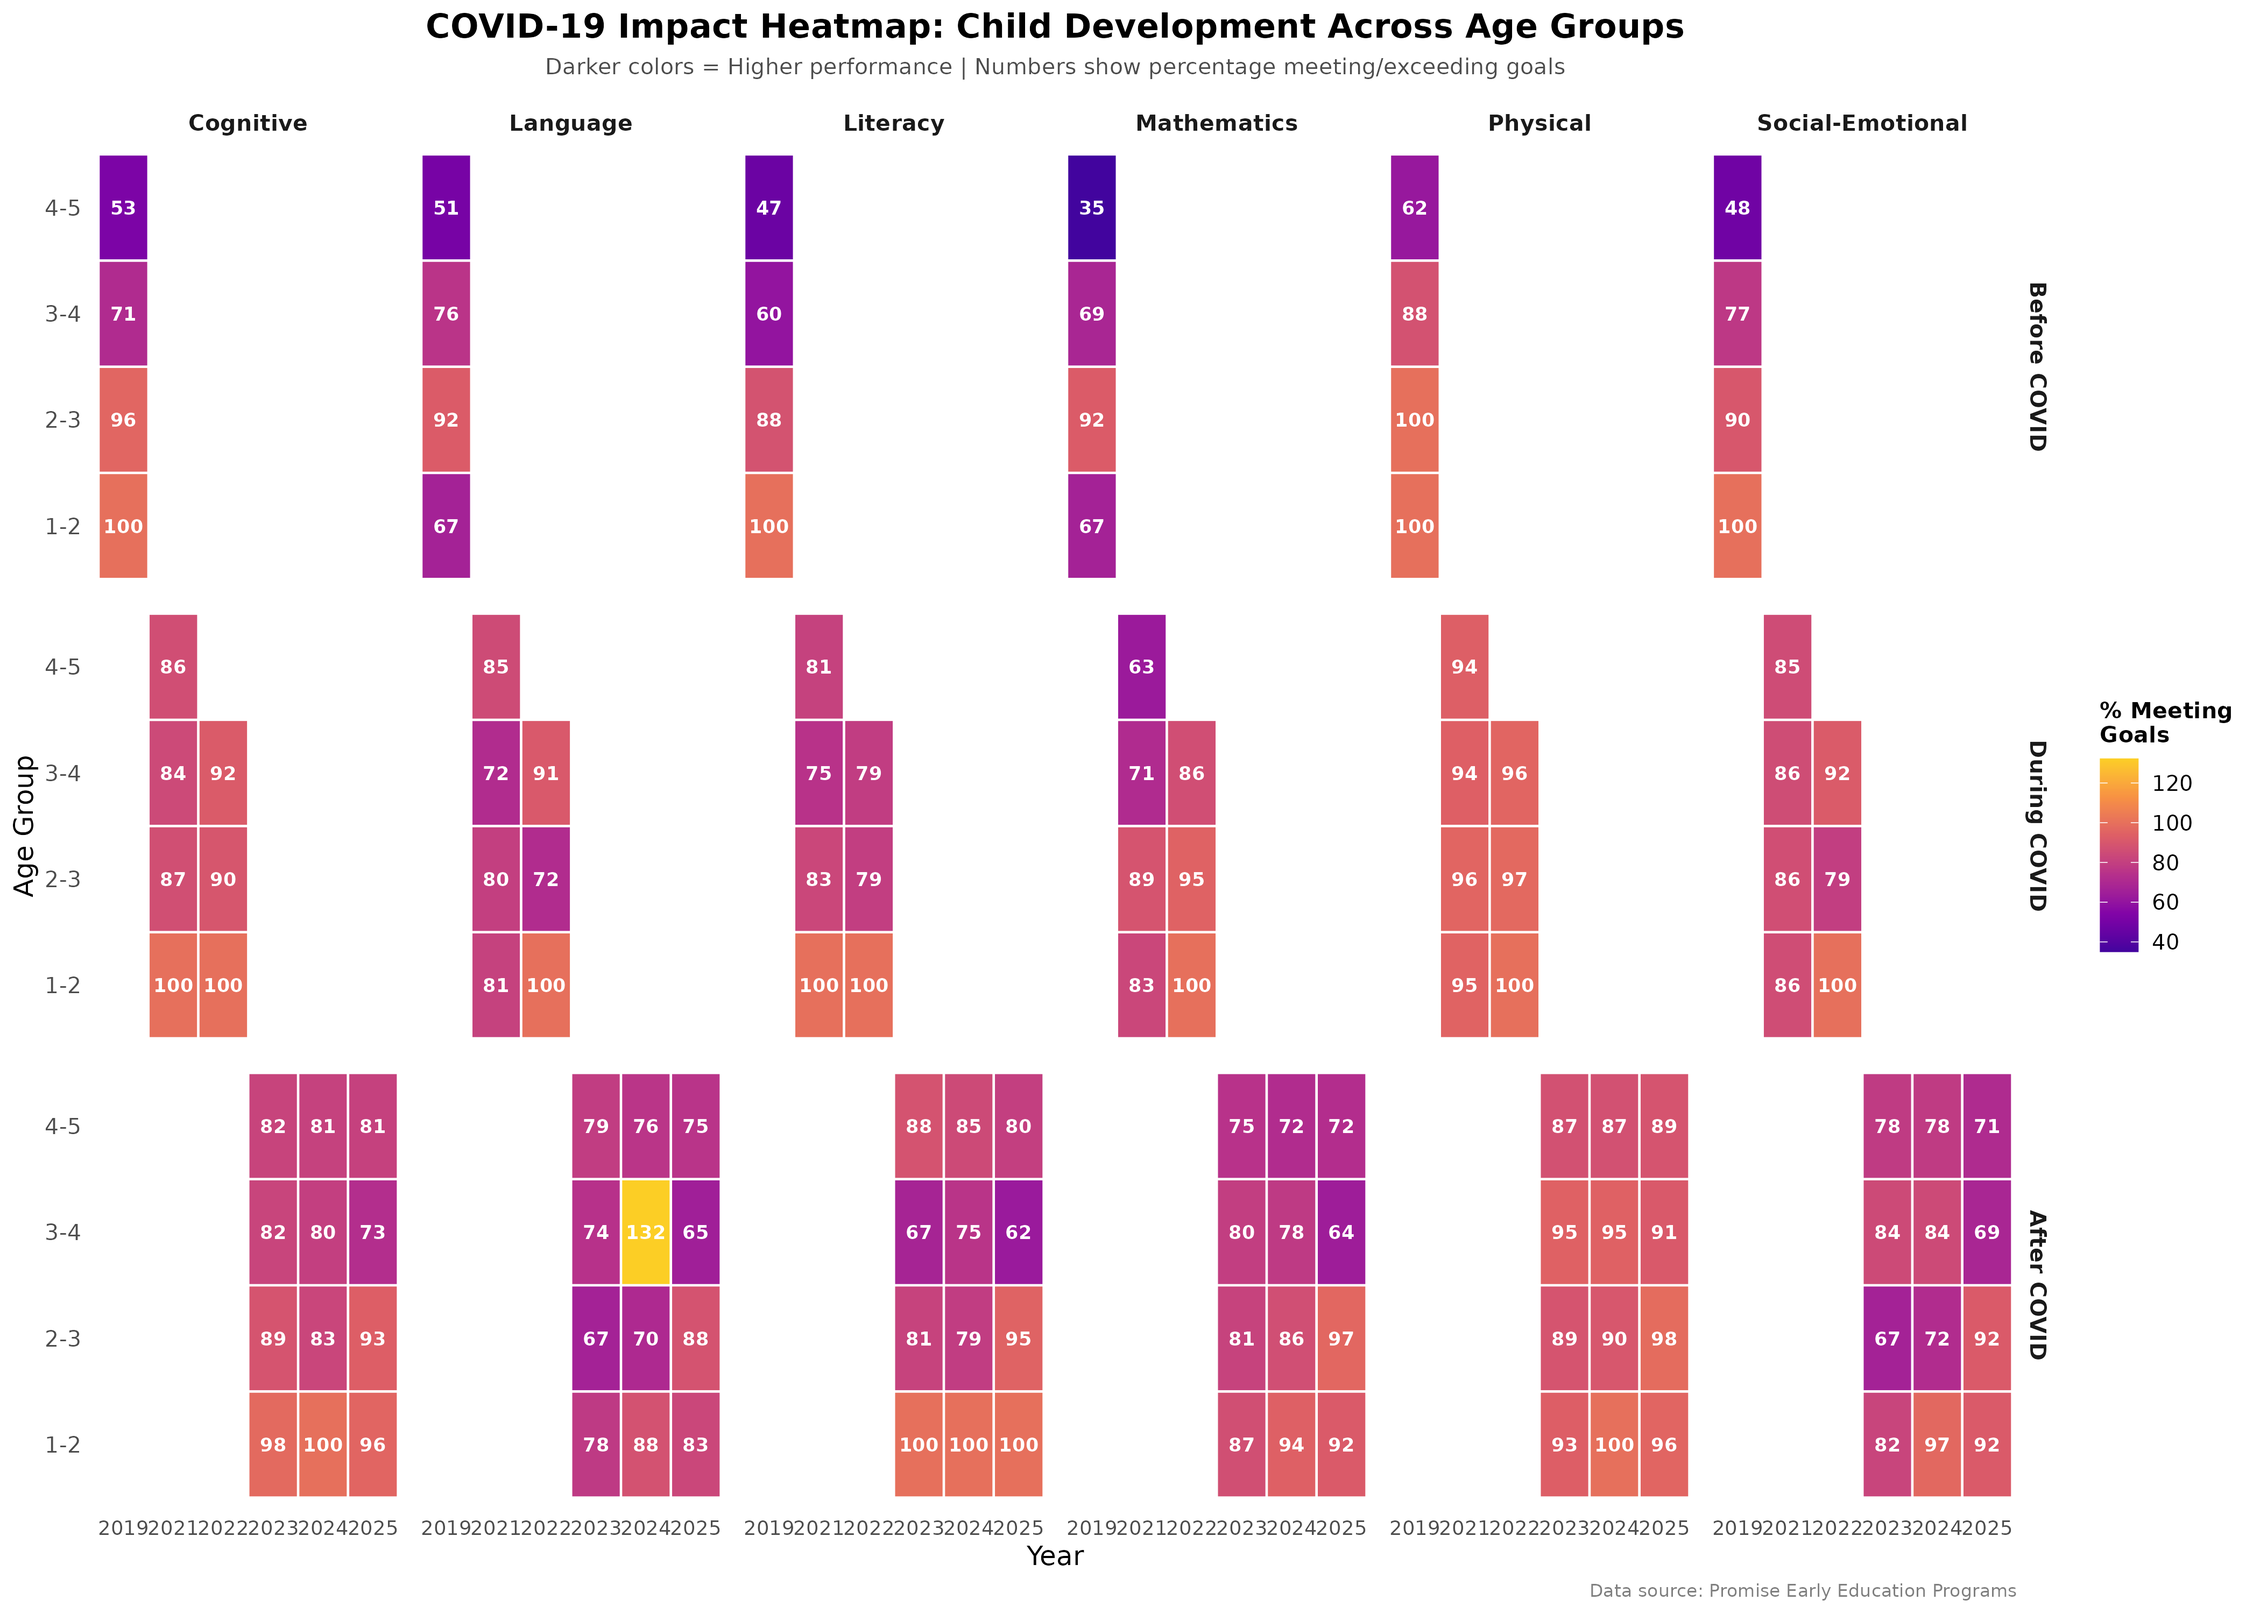
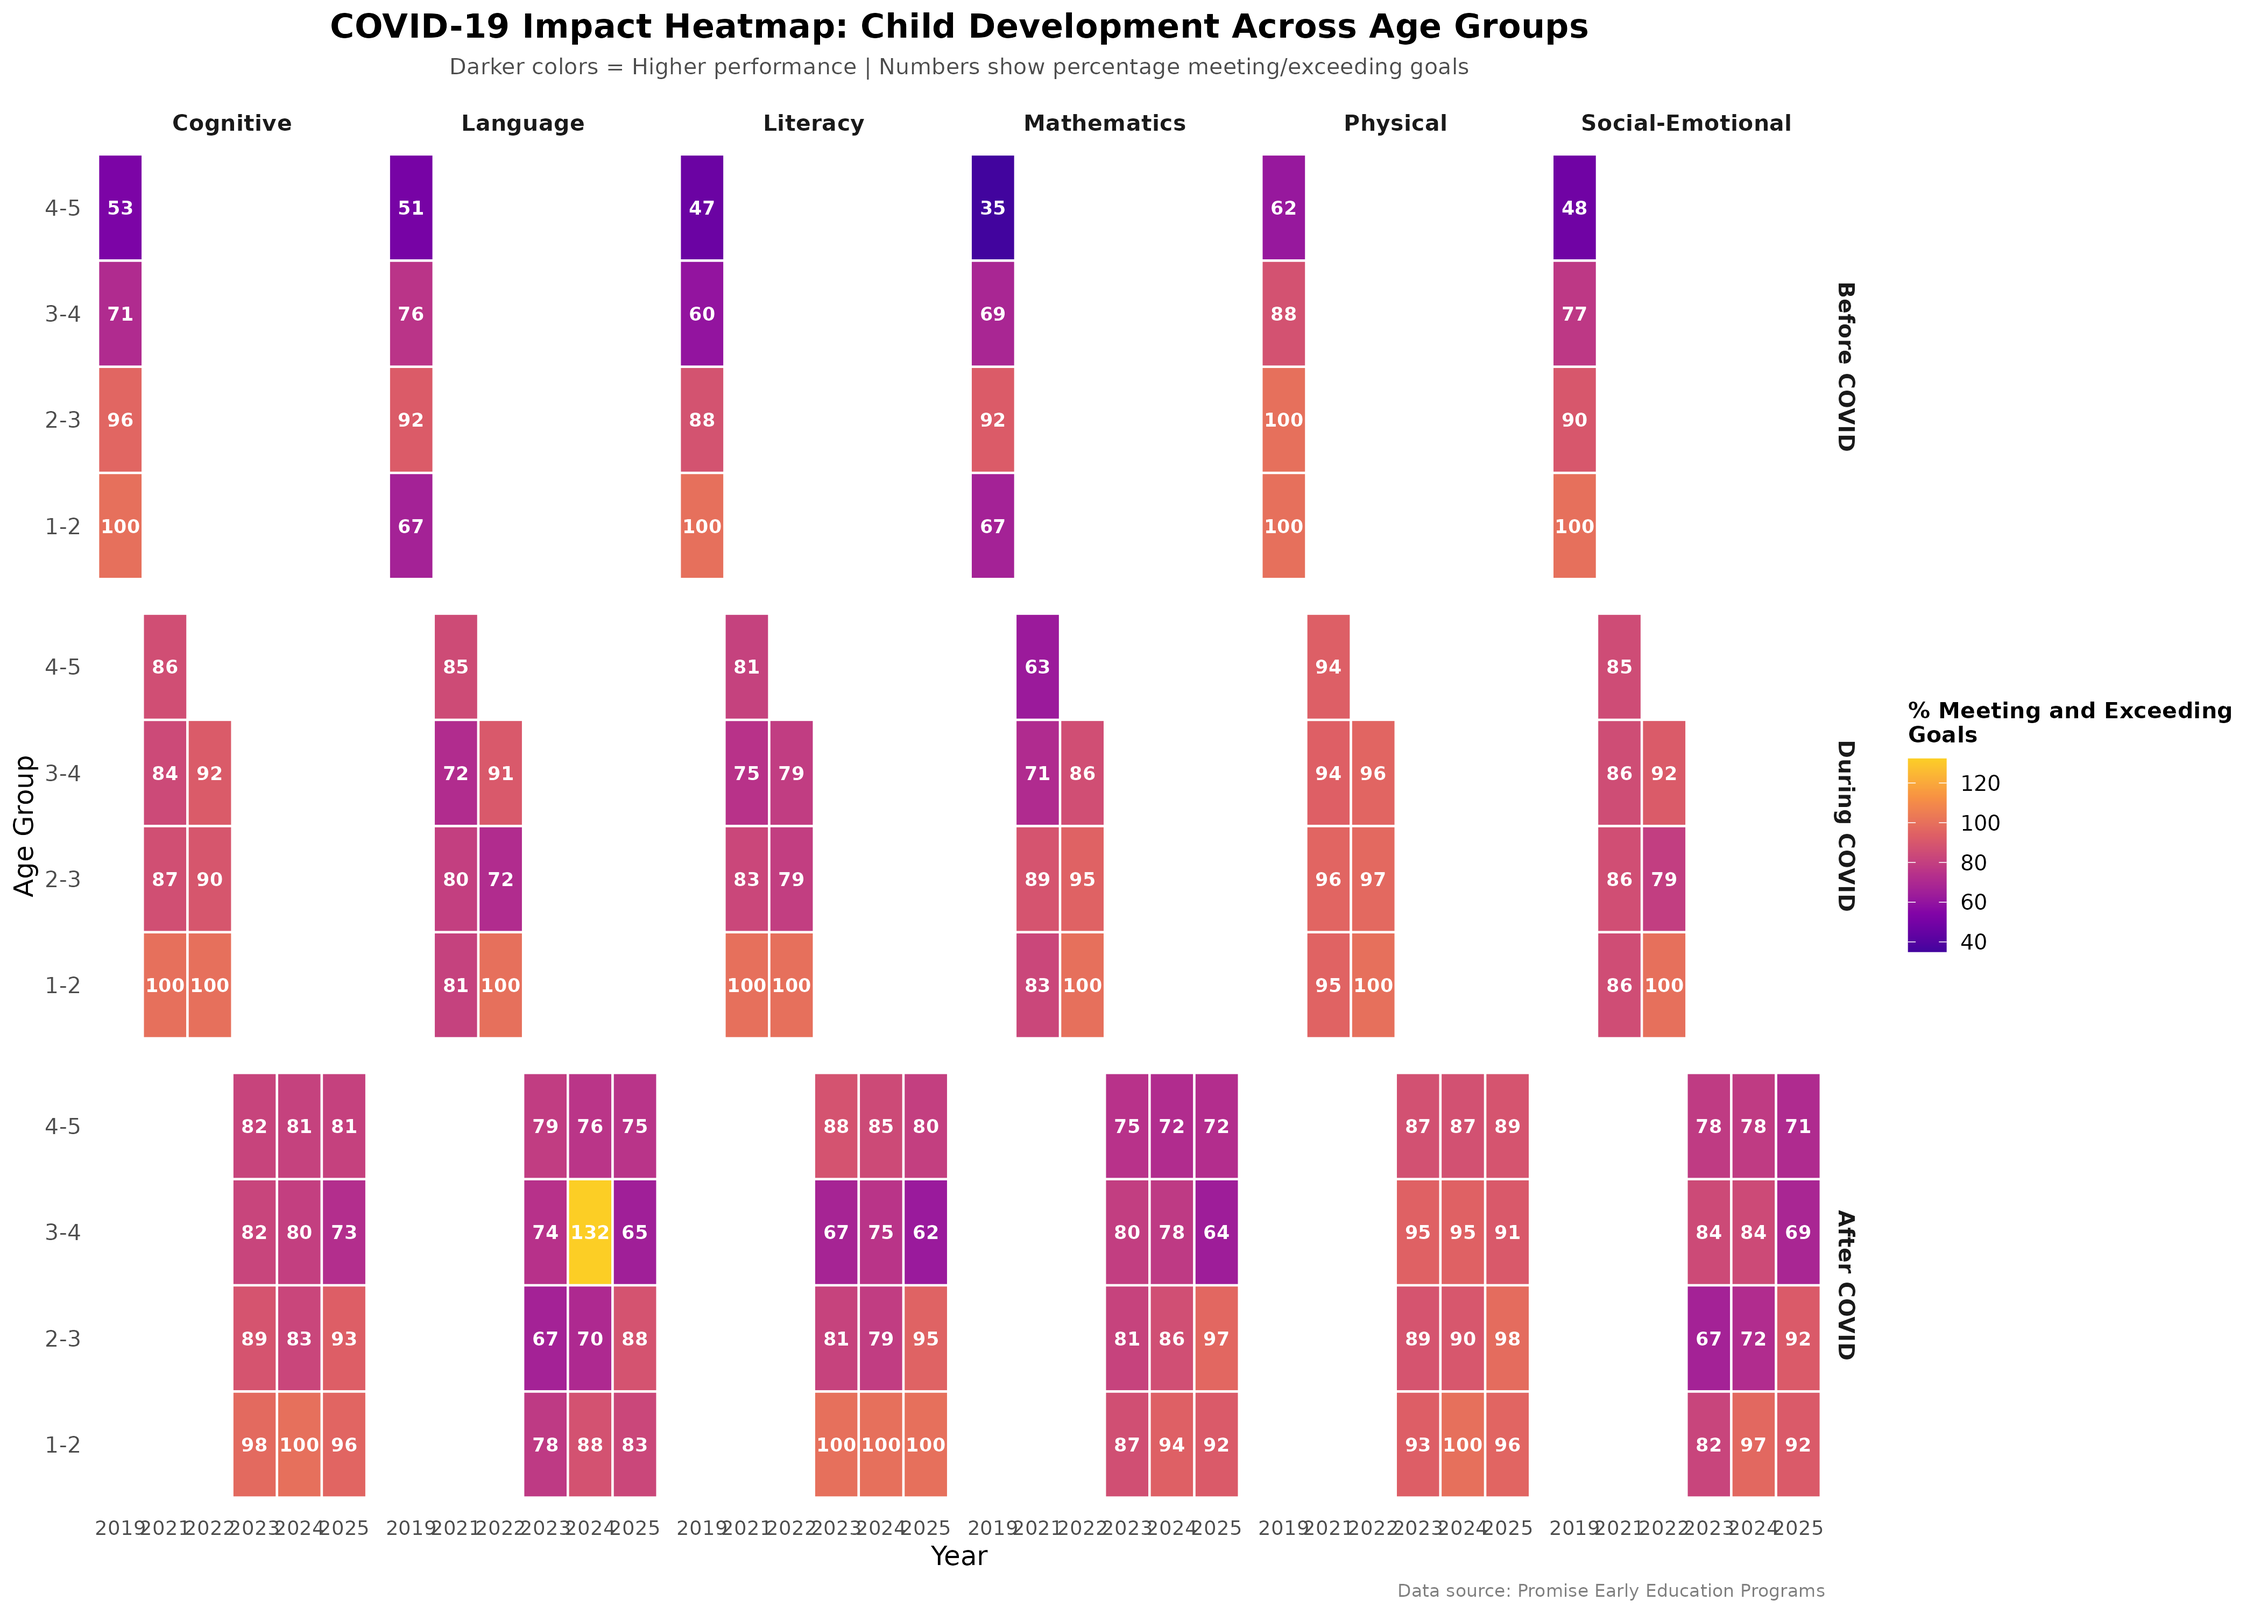
Plot 2

diff --git a/proposal/proposal.md b/proposal/proposal.md
@@ -298,3 +298,74 @@ times with less social interaction. While they recover well during the
 school year, this data still highlights a strong need for summer bridge
 programs and focused social-emotional support to help them stay more on
 track and grow.
+
+``` r
+### Put together all the data from different years
+data <- bind_rows( X2018_2019 |> select(Category, `# Children`, Age, `# Meeting / Exceeding`, `Time Period`) |> mutate(`# Children` = suppressWarnings(as.numeric(`# Children`)), 
+`# Meeting / Exceeding` = suppressWarnings(as.numeric(`# Meeting / Exceeding`)), 
+year = "2019"),
+X2020_2021 |> select(Category, `# Children`, Age, `# Meeting / Exceeding`, `Time Period`) |> 
+mutate(`# Children` = suppressWarnings(as.numeric(`# Children`)), 
+`# Meeting / Exceeding` = suppressWarnings(as.numeric(`# Meeting / Exceeding`)), 
+year = "2021"), 
+X2021_2022 |> select(Category, `# Children`, Age, `# Meeting / Exceeding`, `Time Period`) |> 
+mutate(`# Children` = suppressWarnings(as.numeric(`# Children`)), 
+`# Meeting / Exceeding` = suppressWarnings(as.numeric(`# Meeting / Exceeding`)), 
+year = "2022"),
+X2022_2023 |> select(Category, `# Children`, Age, `# Meeting / Exceeding`, `Time Period`) |> 
+mutate(`# Children` = suppressWarnings(as.numeric(`# Children`)), 
+`# Meeting / Exceeding` = suppressWarnings(as.numeric(`# Meeting / Exceeding`)), 
+year = "2023"),
+X2023_2024 |> select(Category, `# Children`, Age, `# Meeting / Exceeding`, `Time Period`) |> 
+mutate(`# Children` = suppressWarnings(as.numeric(`# Children`)), 
+`# Meeting / Exceeding` = suppressWarnings(as.numeric(`# Meeting / Exceeding`)), 
+year = "2024"),
+X2024_2025 |> select(Category, `# Children`, Age, `# Meeting / Exceeding`, `Time Period`) |> 
+mutate(`# Children` = suppressWarnings(as.numeric(`# Children`)), 
+`# Meeting / Exceeding` = suppressWarnings(as.numeric(`# Meeting / Exceeding`)), 
+year = "2025")
+)
+
+# filter 0-1 age group and calculate percentages
+data <- data |>
+filter(Age != "0-1") |>
+drop_na() |>
+group_by(year, Category, Age) |>
+summarise(percent = sum(`# Meeting / Exceeding`) / sum(`# Children`) * 100, .groups = "drop") |>
+mutate( covid_period = case_when(
+year == "2019" ~ "Before COVID",
+year %in% c("2021", "2022") ~ "During COVID",
+TRUE ~ "After COVID"
+  ),
+covid_period = factor(covid_period, levels = c("Before COVID", "During COVID", "After COVID"))
+)
+
+## Heatmap
+covid_plot <- ggplot(data, aes(x = year, y = Age, fill = percent)) +
+geom_tile(color = "white", size = 0.5) +
+geom_text(aes(label = round(percent, 0)), color = "white", fontface = "bold", size = 3) +
+facet_grid(covid_period ~ Category, scales = "free_y", space = "free_y") +
+scale_fill_viridis_c(option = "plasma", begin = 0.1, end = 0.9) +
+labs(title = "COVID-19 Impact Heatmap: Child Development Across Age Groups",
+subtitle = "Darker colors = Higher performance | Numbers show percentage meeting/exceeding goals",
+x = "Year", y = "Age Group", fill = "% Meeting and Exceeding\nGoals",
+caption = "Data source: Promise Early Education Programs") +
+theme_minimal(base_size = 12) +
+theme(
+plot.title = element_text(face = "bold", size = 15, hjust = 0.5),
+plot.subtitle = element_text(size = 10, hjust = 0.5, color = "gray30", margin = margin(b = 10)),
+axis.text.x = element_text(angle = 0, hjust = 0.5, size = 9),
+axis.text.y = element_text(size = 10),
+strip.text = element_text(face = "bold", size = 10),
+legend.position = "right",
+legend.title = element_text(face = "bold", size = 10),
+panel.grid = element_blank(),
+plot.caption = element_text(size = 8, color = "gray50", hjust = 1)
+  )
+
+# Save png
+ggsave("covid_impact_heatmap.png", covid_plot, width = 14, height = 10, dpi = 300)
+covid_plot
+```
+
+![](proposal_files/figure-gfm/unnamed-chunk-2-1.png)<!-- -->
